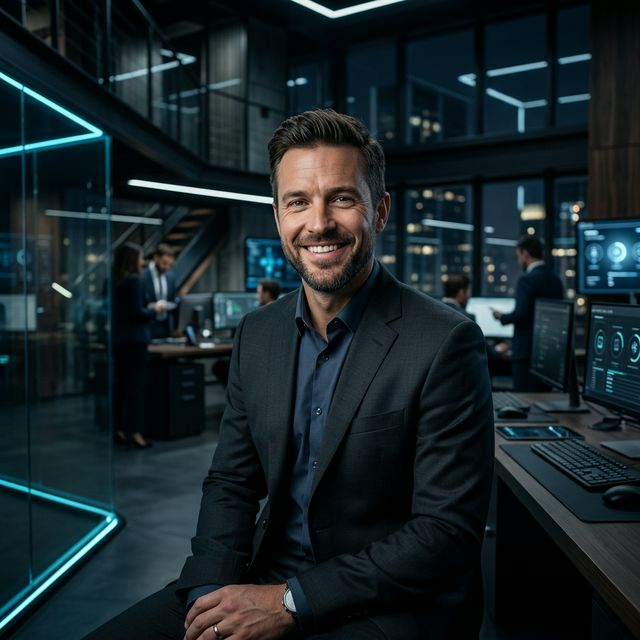
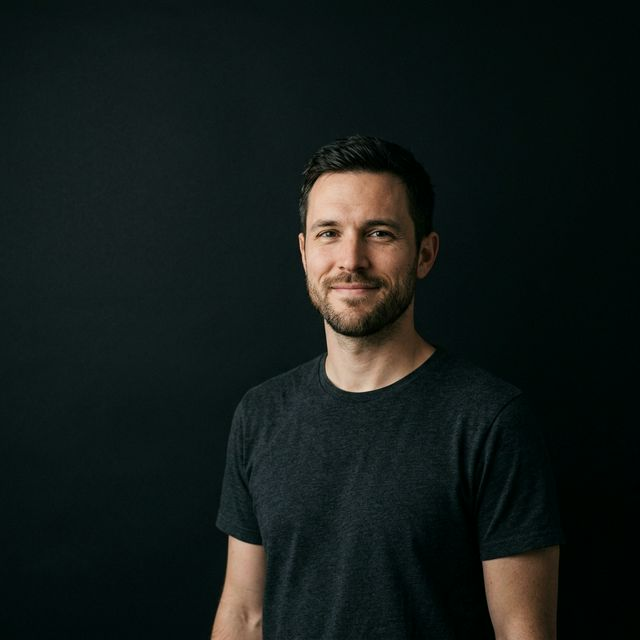
Replace images with minimalist aesthetics and add global reactive cursor glow

diff --git a/book-demo.html b/book-demo.html
@@ -257,4 +257,36 @@
 </div>
 </div>
 </footer>
-<script src="https://unpkg.com/aos@2.3.1/dist/aos.js"></script><script>AOS.init({duration: 800, once: true, offset: 50});</script></body></html>
+<script src="https://unpkg.com/aos@2.3.1/dist/aos.js"></script><script>AOS.init({duration: 800, once: true, offset: 50});</script>
+<!-- Cursor Glow Effect -->
+<div id="cursor-glow" class="fixed pointer-events-none z-50 w-[800px] h-[800px] rounded-full translate-x-[-50%] translate-y-[-50%] opacity-60 mix-blend-screen transition-transform duration-300 ease-out" style="background: radial-gradient(circle, rgba(136, 246, 223, 0.08) 0%, rgba(0,0,0,0) 60%); top: -1000px; left: -1000px;"></div>
+<script>
+    document.addEventListener("DOMContentLoaded", () => {
+        const glow = document.getElementById("cursor-glow");
+        let isMoving = false;
+        document.addEventListener("mousemove", (e) => {
+            if (!isMoving) {
+                requestAnimationFrame(() => {
+                    glow.style.left = e.clientX + "px";
+                    glow.style.top = e.clientY + "px";
+                    isMoving = false;
+                });
+                isMoving = true;
+            }
+        });
+        
+        // Enhance glow smartly when hovering over interactive/glass elements
+        const clickables = document.querySelectorAll("a, button, .glass-panel");
+        clickables.forEach(el => {
+            el.addEventListener("mouseenter", () => {
+                glow.style.background = "radial-gradient(circle, rgba(174, 198, 255, 0.15) 0%, rgba(0,0,0,0) 60%)";
+                glow.style.transform = "translate(-50%, -50%) scale(1.1)";
+            });
+            el.addEventListener("mouseleave", () => {
+                glow.style.background = "radial-gradient(circle, rgba(136, 246, 223, 0.08) 0%, rgba(0,0,0,0) 60%)";
+                glow.style.transform = "translate(-50%, -50%) scale(1)";
+            });
+        });
+    });
+</script>
+\n</body></html>

diff --git a/content-studio.html b/content-studio.html
@@ -283,4 +283,36 @@
 </div>
 </div>
 </footer>
-<script src="https://unpkg.com/aos@2.3.1/dist/aos.js"></script><script>AOS.init({duration: 800, once: true, offset: 50});</script></body></html>
+<script src="https://unpkg.com/aos@2.3.1/dist/aos.js"></script><script>AOS.init({duration: 800, once: true, offset: 50});</script>
+<!-- Cursor Glow Effect -->
+<div id="cursor-glow" class="fixed pointer-events-none z-50 w-[800px] h-[800px] rounded-full translate-x-[-50%] translate-y-[-50%] opacity-60 mix-blend-screen transition-transform duration-300 ease-out" style="background: radial-gradient(circle, rgba(136, 246, 223, 0.08) 0%, rgba(0,0,0,0) 60%); top: -1000px; left: -1000px;"></div>
+<script>
+    document.addEventListener("DOMContentLoaded", () => {
+        const glow = document.getElementById("cursor-glow");
+        let isMoving = false;
+        document.addEventListener("mousemove", (e) => {
+            if (!isMoving) {
+                requestAnimationFrame(() => {
+                    glow.style.left = e.clientX + "px";
+                    glow.style.top = e.clientY + "px";
+                    isMoving = false;
+                });
+                isMoving = true;
+            }
+        });
+        
+        // Enhance glow smartly when hovering over interactive/glass elements
+        const clickables = document.querySelectorAll("a, button, .glass-panel");
+        clickables.forEach(el => {
+            el.addEventListener("mouseenter", () => {
+                glow.style.background = "radial-gradient(circle, rgba(174, 198, 255, 0.15) 0%, rgba(0,0,0,0) 60%)";
+                glow.style.transform = "translate(-50%, -50%) scale(1.1)";
+            });
+            el.addEventListener("mouseleave", () => {
+                glow.style.background = "radial-gradient(circle, rgba(136, 246, 223, 0.08) 0%, rgba(0,0,0,0) 60%)";
+                glow.style.transform = "translate(-50%, -50%) scale(1)";
+            });
+        });
+    });
+</script>
+\n</body></html>

diff --git a/index.html b/index.html
@@ -287,4 +287,36 @@
 </div>
 </div>
 </footer>
-<script src="https://unpkg.com/aos@2.3.1/dist/aos.js"></script><script>AOS.init({duration: 800, once: true, offset: 50});</script></body></html>
+<script src="https://unpkg.com/aos@2.3.1/dist/aos.js"></script><script>AOS.init({duration: 800, once: true, offset: 50});</script>
+<!-- Cursor Glow Effect -->
+<div id="cursor-glow" class="fixed pointer-events-none z-50 w-[800px] h-[800px] rounded-full translate-x-[-50%] translate-y-[-50%] opacity-60 mix-blend-screen transition-transform duration-300 ease-out" style="background: radial-gradient(circle, rgba(136, 246, 223, 0.08) 0%, rgba(0,0,0,0) 60%); top: -1000px; left: -1000px;"></div>
+<script>
+    document.addEventListener("DOMContentLoaded", () => {
+        const glow = document.getElementById("cursor-glow");
+        let isMoving = false;
+        document.addEventListener("mousemove", (e) => {
+            if (!isMoving) {
+                requestAnimationFrame(() => {
+                    glow.style.left = e.clientX + "px";
+                    glow.style.top = e.clientY + "px";
+                    isMoving = false;
+                });
+                isMoving = true;
+            }
+        });
+        
+        // Enhance glow smartly when hovering over interactive/glass elements
+        const clickables = document.querySelectorAll("a, button, .glass-panel");
+        clickables.forEach(el => {
+            el.addEventListener("mouseenter", () => {
+                glow.style.background = "radial-gradient(circle, rgba(174, 198, 255, 0.15) 0%, rgba(0,0,0,0) 60%)";
+                glow.style.transform = "translate(-50%, -50%) scale(1.1)";
+            });
+            el.addEventListener("mouseleave", () => {
+                glow.style.background = "radial-gradient(circle, rgba(136, 246, 223, 0.08) 0%, rgba(0,0,0,0) 60%)";
+                glow.style.transform = "translate(-50%, -50%) scale(1)";
+            });
+        });
+    });
+</script>
+\n</body></html>

diff --git a/outreach.html b/outreach.html
@@ -315,4 +315,36 @@
 </div>
 </div>
 </footer>
-<script src="https://unpkg.com/aos@2.3.1/dist/aos.js"></script><script>AOS.init({duration: 800, once: true, offset: 50});</script></body></html>
+<script src="https://unpkg.com/aos@2.3.1/dist/aos.js"></script><script>AOS.init({duration: 800, once: true, offset: 50});</script>
+<!-- Cursor Glow Effect -->
+<div id="cursor-glow" class="fixed pointer-events-none z-50 w-[800px] h-[800px] rounded-full translate-x-[-50%] translate-y-[-50%] opacity-60 mix-blend-screen transition-transform duration-300 ease-out" style="background: radial-gradient(circle, rgba(136, 246, 223, 0.08) 0%, rgba(0,0,0,0) 60%); top: -1000px; left: -1000px;"></div>
+<script>
+    document.addEventListener("DOMContentLoaded", () => {
+        const glow = document.getElementById("cursor-glow");
+        let isMoving = false;
+        document.addEventListener("mousemove", (e) => {
+            if (!isMoving) {
+                requestAnimationFrame(() => {
+                    glow.style.left = e.clientX + "px";
+                    glow.style.top = e.clientY + "px";
+                    isMoving = false;
+                });
+                isMoving = true;
+            }
+        });
+        
+        // Enhance glow smartly when hovering over interactive/glass elements
+        const clickables = document.querySelectorAll("a, button, .glass-panel");
+        clickables.forEach(el => {
+            el.addEventListener("mouseenter", () => {
+                glow.style.background = "radial-gradient(circle, rgba(174, 198, 255, 0.15) 0%, rgba(0,0,0,0) 60%)";
+                glow.style.transform = "translate(-50%, -50%) scale(1.1)";
+            });
+            el.addEventListener("mouseleave", () => {
+                glow.style.background = "radial-gradient(circle, rgba(136, 246, 223, 0.08) 0%, rgba(0,0,0,0) 60%)";
+                glow.style.transform = "translate(-50%, -50%) scale(1)";
+            });
+        });
+    });
+</script>
+\n</body></html>

diff --git a/web-dev.html b/web-dev.html
@@ -323,4 +323,36 @@
 </div>
 </div>
 </footer>
-<script src="https://unpkg.com/aos@2.3.1/dist/aos.js"></script><script>AOS.init({duration: 800, once: true, offset: 50});</script></body></html>
+<script src="https://unpkg.com/aos@2.3.1/dist/aos.js"></script><script>AOS.init({duration: 800, once: true, offset: 50});</script>
+<!-- Cursor Glow Effect -->
+<div id="cursor-glow" class="fixed pointer-events-none z-50 w-[800px] h-[800px] rounded-full translate-x-[-50%] translate-y-[-50%] opacity-60 mix-blend-screen transition-transform duration-300 ease-out" style="background: radial-gradient(circle, rgba(136, 246, 223, 0.08) 0%, rgba(0,0,0,0) 60%); top: -1000px; left: -1000px;"></div>
+<script>
+    document.addEventListener("DOMContentLoaded", () => {
+        const glow = document.getElementById("cursor-glow");
+        let isMoving = false;
+        document.addEventListener("mousemove", (e) => {
+            if (!isMoving) {
+                requestAnimationFrame(() => {
+                    glow.style.left = e.clientX + "px";
+                    glow.style.top = e.clientY + "px";
+                    isMoving = false;
+                });
+                isMoving = true;
+            }
+        });
+        
+        // Enhance glow smartly when hovering over interactive/glass elements
+        const clickables = document.querySelectorAll("a, button, .glass-panel");
+        clickables.forEach(el => {
+            el.addEventListener("mouseenter", () => {
+                glow.style.background = "radial-gradient(circle, rgba(174, 198, 255, 0.15) 0%, rgba(0,0,0,0) 60%)";
+                glow.style.transform = "translate(-50%, -50%) scale(1.1)";
+            });
+            el.addEventListener("mouseleave", () => {
+                glow.style.background = "radial-gradient(circle, rgba(136, 246, 223, 0.08) 0%, rgba(0,0,0,0) 60%)";
+                glow.style.transform = "translate(-50%, -50%) scale(1)";
+            });
+        });
+    });
+</script>
+\n</body></html>